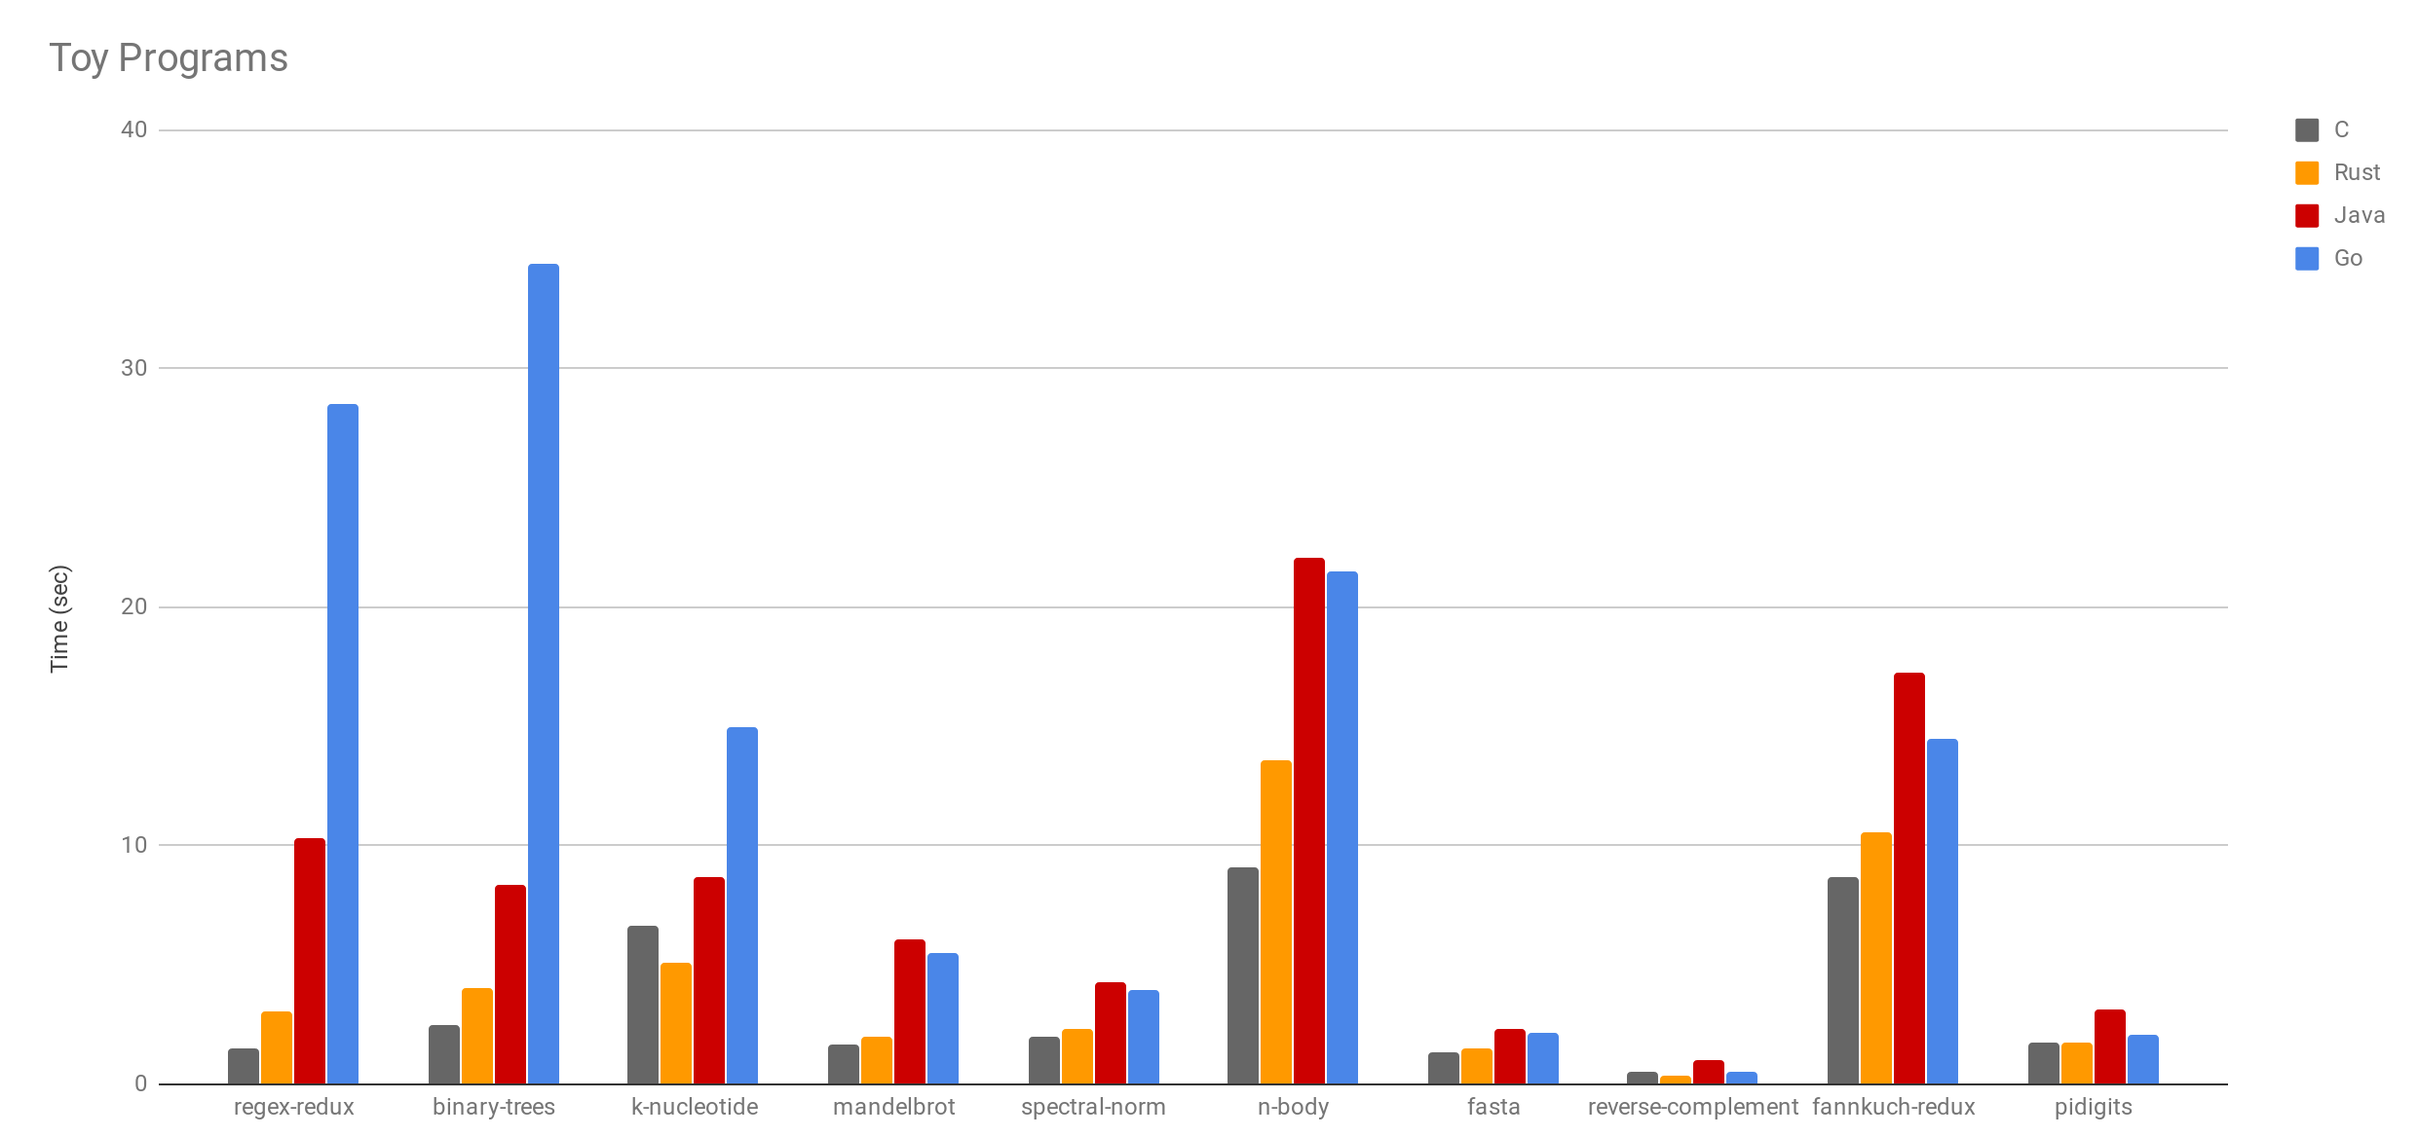
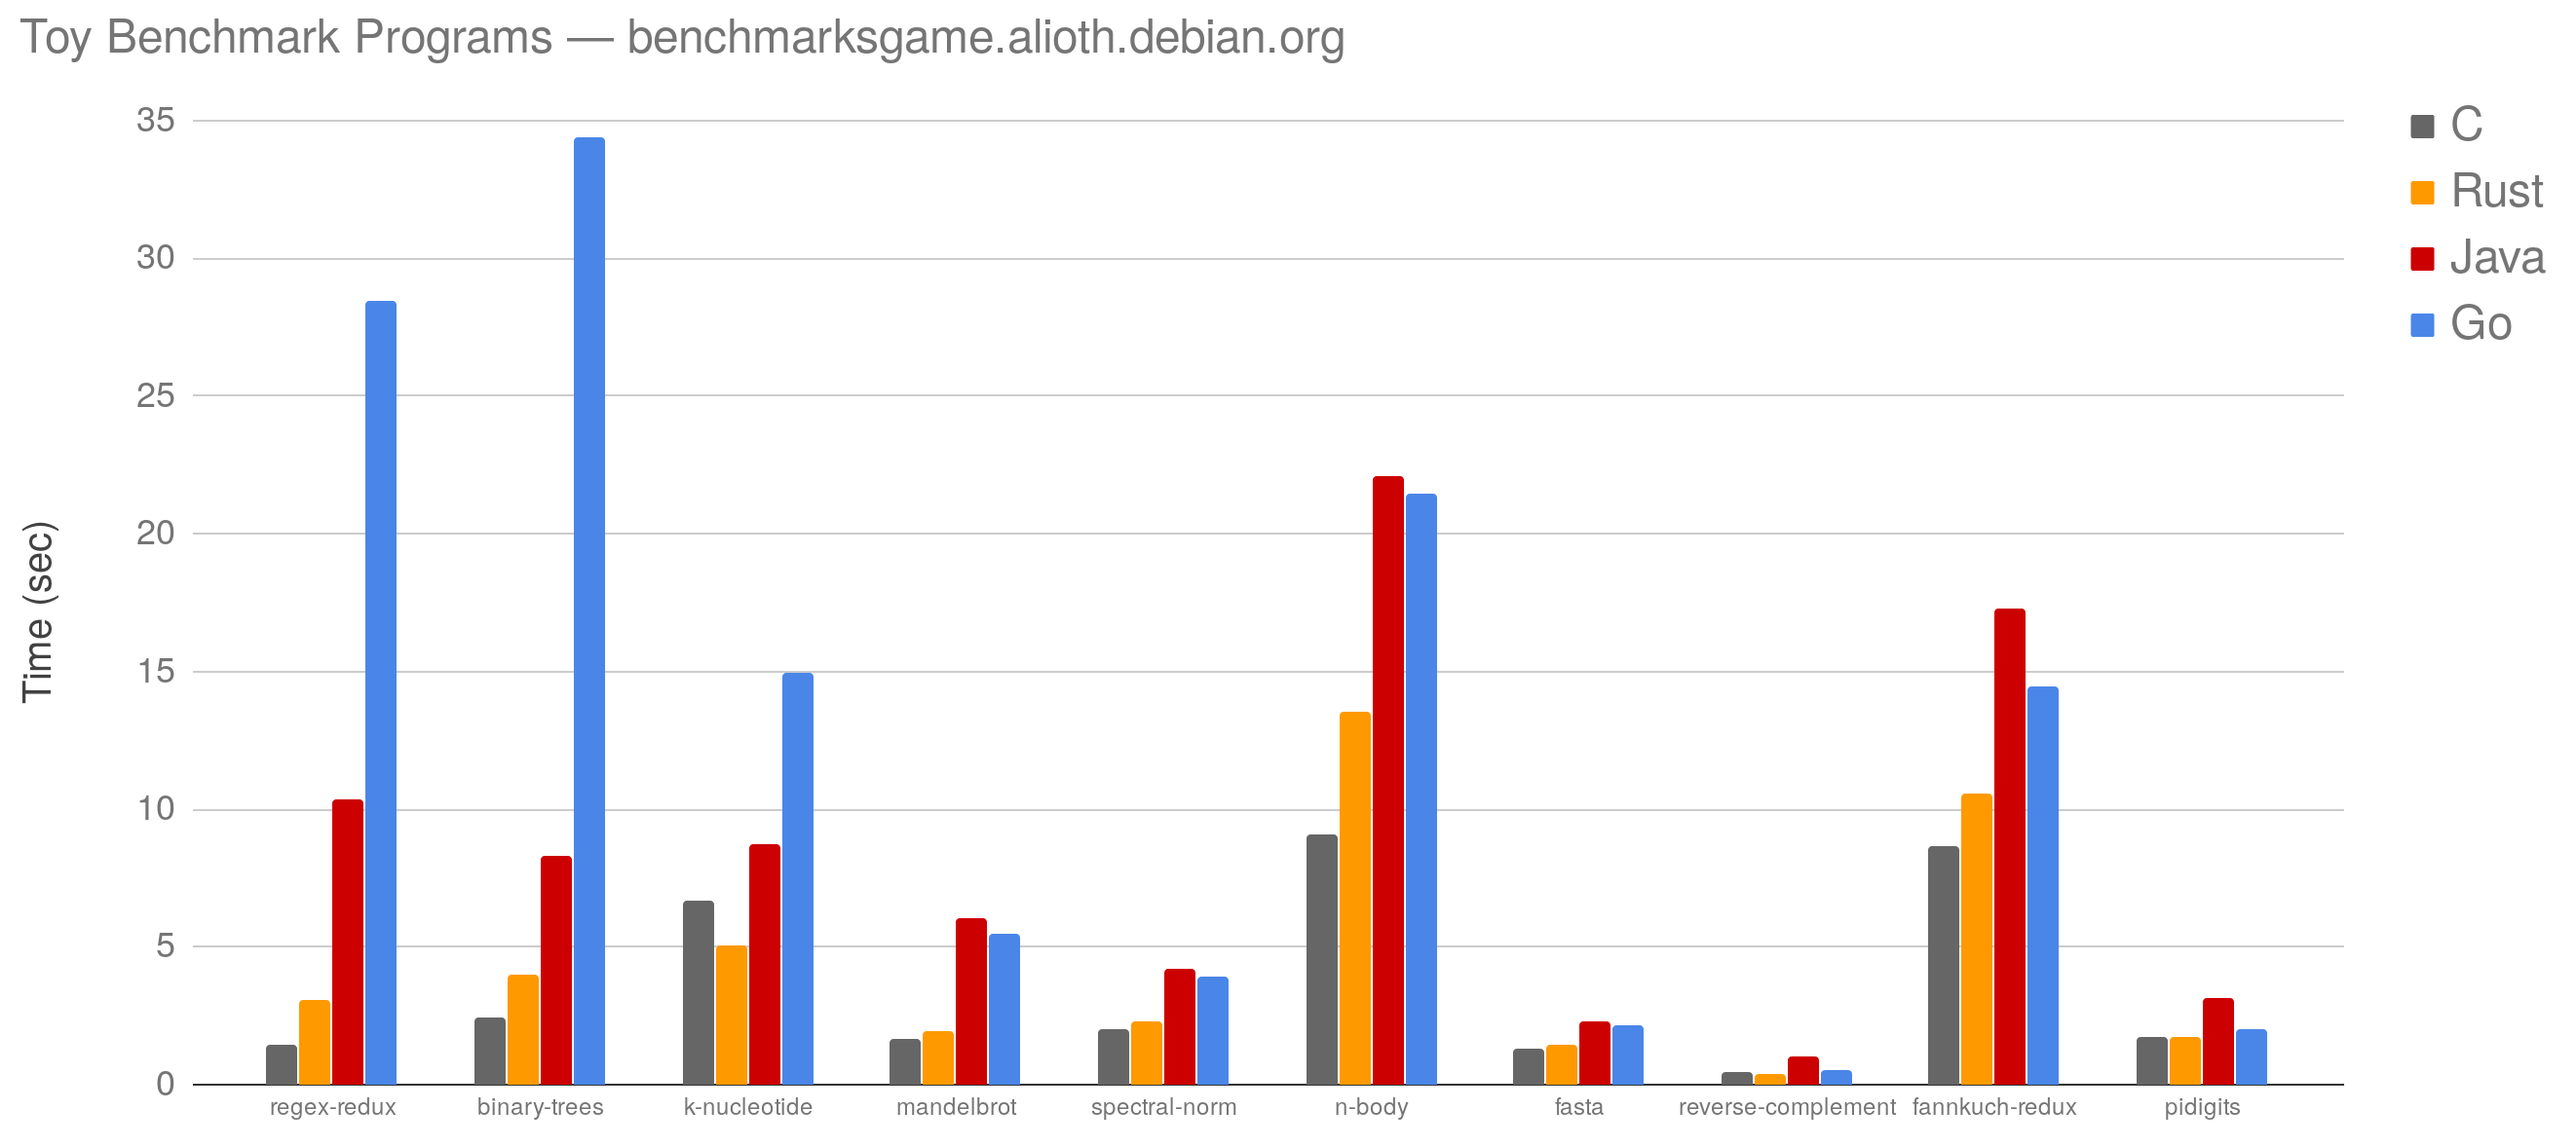
More slide tweaks, update benchmarks chart

diff --git a/slides.html b/slides.html
@@ -1,7 +1,7 @@
 <!DOCTYPE html>
 <html>
   <head>
-    <title>Rust Introduction</title>
+    <title>Introduction to Rust</title>
     <meta charset="utf-8">
     <style>
       @import url(https://fonts.googleapis.com/css?family=Yanone+Kaffeesatz);

diff --git a/slides.in.md b/slides.in.md
@@ -50,7 +50,7 @@ fn main() {
 
 --
 
-  * Embedded systems (microcontrollers)
+  * Web (front and backend)
 
 --
 
@@ -58,7 +58,7 @@ fn main() {
 
 --
 
-  * Web (front and backend)
+  * Embedded systems (microcontrollers)
 
 ---
 
@@ -70,19 +70,11 @@ fn main() {
 
 # Runs Blazingly Fast
 
-* Native code, no interpreter.
-
---
-
-* Similar performance to C and C++.
+* No interpreter, no runtime.
 
 --
 
 * Memory safety without garbage collection.
-
---
-
-* No runtime.
 
 --
 
@@ -94,7 +86,7 @@ class: segfaults
 
 # Prevents Segfaults
 
-* No `NULL`, `nil` or other [billion dollar mistakes][billion-dollar-mistake].
+* No `nil`, `NULL` or other [billion dollar mistakes][billion-dollar-mistake].
 
 ![undefined method for nil:NilClass](images/undefined-method-nil.png)
 
@@ -367,7 +359,7 @@ impl Person {
 
 # Option
 
-Instead of `nil`/`NULL` we have `Option`.
+Instead of `nil` and `NULL` there is `Option`.
 
 * Used to represent something that may be absent.
 

diff --git a/slides.md b/slides.md
@@ -50,7 +50,7 @@ fn main() {
 
 --
 
-  * Embedded systems (microcontrollers)
+  * Web (front and backend)
 
 --
 
@@ -58,7 +58,7 @@ fn main() {
 
 --
 
-  * Web (front and backend)
+  * Embedded systems (microcontrollers)
 
 ---
 
@@ -70,19 +70,11 @@ fn main() {
 
 # Runs Blazingly Fast
 
-* Native code, no interpreter.
-
---
-
-* Similar performance to C and C++.
+* No interpreter, no runtime.
 
 --
 
 * Memory safety without garbage collection.
-
---
-
-* No runtime.
 
 --
 
@@ -94,7 +86,7 @@ class: segfaults
 
 # Prevents Segfaults
 
-* No `NULL`, `nil` or other [billion dollar mistakes][billion-dollar-mistake].
+* No `nil`, `NULL` or other [billion dollar mistakes][billion-dollar-mistake].
 
 ![undefined method for nil:NilClass](images/undefined-method-nil.png)
 
@@ -367,7 +359,7 @@ impl Person {
 
 # Option
 
-Instead of `nil`/`NULL` we have `Option`.
+Instead of `nil` and `NULL` there is `Option`.
 
 * Used to represent something that may be absent.
 
